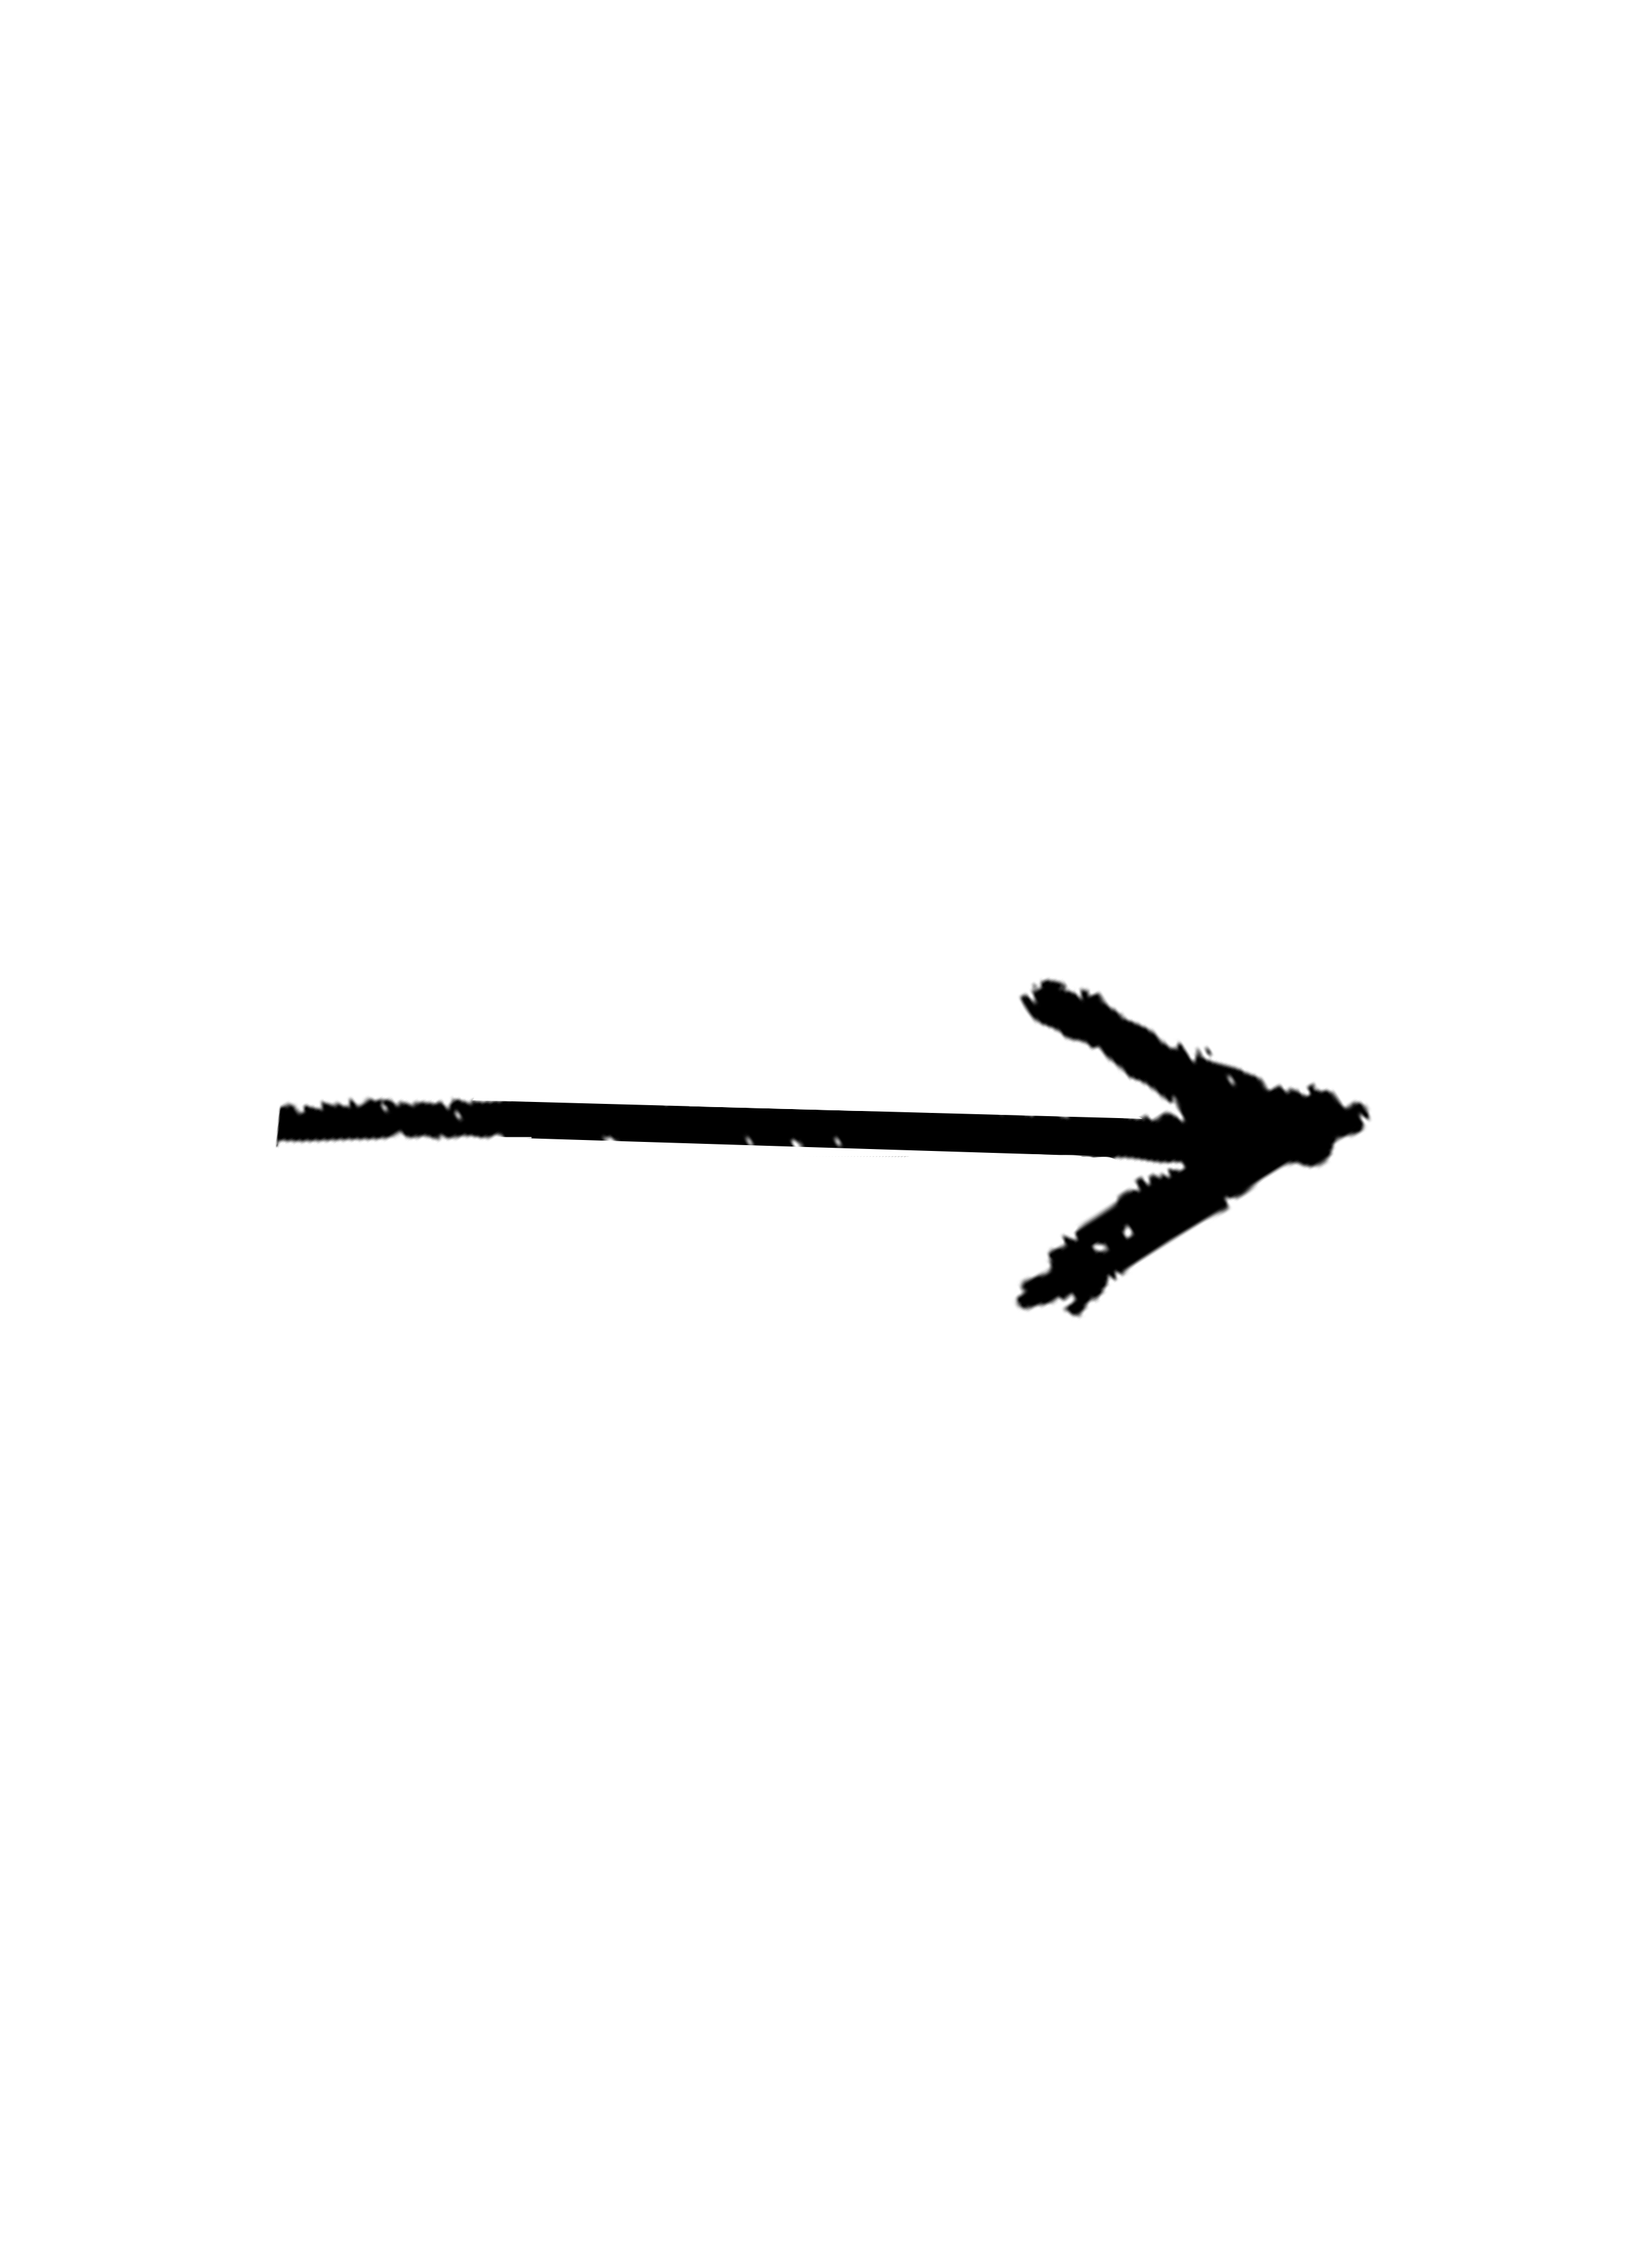
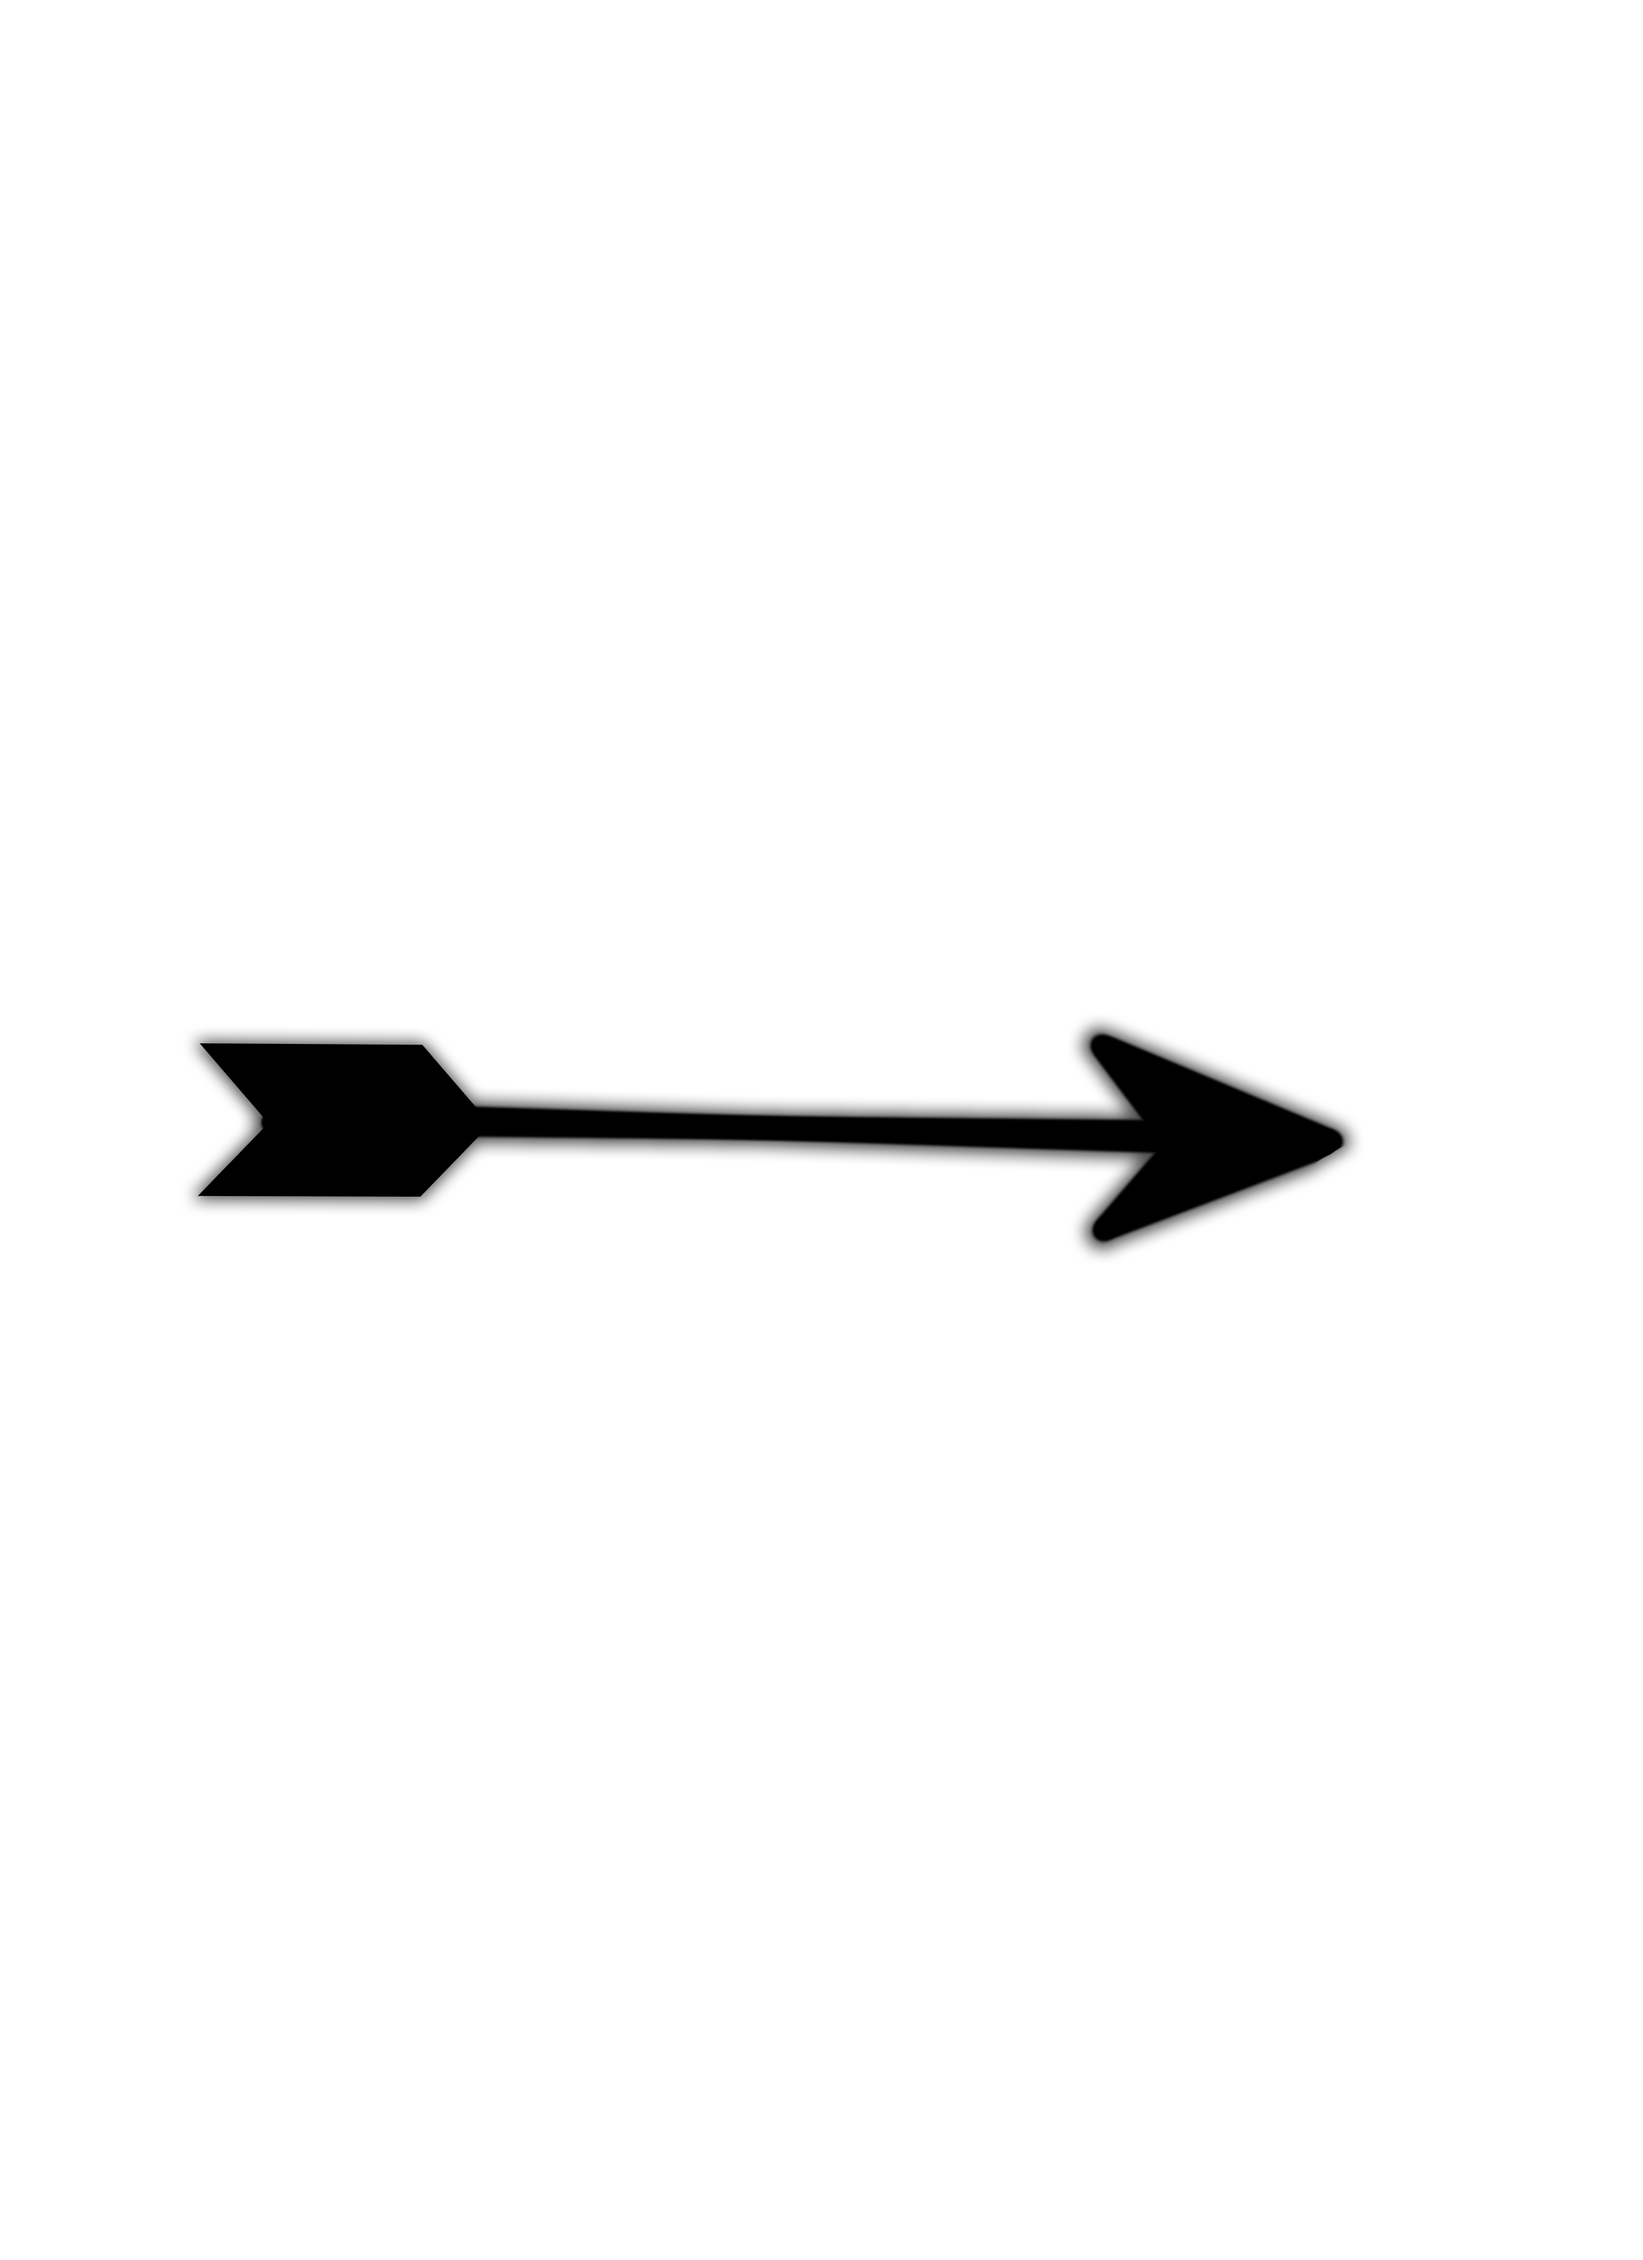
kleines Update
Implementiert nun auch die neuen Assets, also dead animation, idle und eine neue pfeil textur

Changed region(s): [[0.1239, 0.4351, 0.8365, 0.5905]]

diff --git a/Grafik/src/Grafik/Player.java b/Grafik/src/Grafik/Player.java
@@ -5,7 +5,10 @@ import java.awt.Graphics2D;
 import java.awt.Image;
 import java.awt.Toolkit;
 import java.awt.image.BufferedImage;
+import java.io.File;
+import java.io.IOException;
 
+import javax.imageio.ImageIO;
 import javax.swing.JComponent;
 
 /**
@@ -22,9 +25,10 @@ class Player extends JComponent{
   private boolean right;
   private boolean takedmg;
   private boolean dead;
-  
+  private int zaehler;
   private MovementType movement;
   private Image image;
+  private BufferedImage idle;
   private AttackType attack;
   
   /**
@@ -43,10 +47,11 @@ class Player extends JComponent{
       this.y = y;
       width = w;
       height = h;
-      movement = MovementType.MOVE;
+      movement = MovementType.IDLE;
       attack = AttackType.NON;
       image = null;
       right = r;
+      zaehler = 0;
     }
   
   /**
@@ -110,19 +115,25 @@ class Player extends JComponent{
    * Zeichnet den Spieler je nach Bewegungsart, Angriffstyp und ob er gerade Schaden erlitten hat oder gestorben ist
    */
   public void paint(Graphics g) {
-      Graphics2D g2d = (Graphics2D) g;
+      //Graphics2D g2d = (Graphics2D) g;
       Toolkit toolkit = Toolkit.getDefaultToolkit();
       this.setBounds(x, y, width, height);
       // erst Bewegungsanamation laden
       switch(movement){
       case IDLE:
-        image = toolkit.getImage("Assets/Charaktere/" + name + "_idle.gif");
-        break;
+    	  if(idle == null){
+              try {
+                idle = ImageIO.read(new File("Assets/Charaktere/" + name + "_idle.png"));
+              } catch (IOException e) {
+                // TODO Auto-generated catch block
+                e.printStackTrace();
+              }
+            }
       case MOVE:
         image = toolkit.getImage("Assets/Charaktere/" + name + "_move.gif");       
         break;
       case JUMPING:
-        image = toolkit.getImage("Assets/Charaktere/" + name + "_jumping.gif");       
+        image = toolkit.getImage("Assets/Charaktere/" + name + "_jumping.gif"); 
         break;
       default:
         System.out.println("Irgendwas ist schiefgelaufen");
@@ -137,17 +148,30 @@ class Player extends JComponent{
         image = toolkit.getImage("Assets/Charaktere/" + name + "_attack.gif");
         break;
       case SPECIAL1:
-        image = toolkit.getImage("Assets/Charaktere/" + name + "_att_special1.gif");
+        image = toolkit.getImage("Assets/Charaktere/" + name + "_attack.gif");
         break;
       case SPECIAL2:
-        image = toolkit.getImage("Assets/Charaktere/" + name + "_att_special2_r.gif");
+        image = toolkit.getImage("Assets/Charaktere/" + name + "_attack.gif");
         break;
       }
-      if(right) {
-    	  g2d.drawImage(image, 0, 0, width, height, this);
+      if(dead) {
+    	  image = toolkit.getImage("Assets/Charaktere/" + name + "_dead.gif");
+    	  zaehler++;
       }
-      else {
-    	  g2d.drawImage(image, width-1, 0, -width, height, this);
+      if(right && movement != MovementType.IDLE) {
+    	  g.drawImage(image, 0, 0, width, height, this);
+      }
+      else if(!right && movement != MovementType.IDLE){
+    	  g.drawImage(image, width-1, 0, -width, height, this);
+      }
+      else if(right && movement == MovementType.IDLE) {
+    	  g.drawImage(idle, 0, 0, width, height, null);
+      }
+      else if(!right && movement == MovementType.IDLE) {
+    	  g.drawImage(idle, width-1, 0, -width, height, null);
+      }
+      if(zaehler >= 5) {
+    	  Game.delPlayer(this);
       }
   }
   

diff --git a/Grafik/src/Grafik/SoundManager.java b/Grafik/src/Grafik/SoundManager.java
@@ -30,11 +30,10 @@ class SoundManager{  // muss vllt ein eigener Thread sein
             DataLine.Info info      = new DataLine.Info(Clip.class, af, size);
             audioInputStream.read(audio, 0, size);
            
-            //for(int i=0; i < 32; i++) {
-                clip = (Clip) AudioSystem.getLine(info);
-                clip.open(af, audio, 0, size);
-                clip.start();
-            //}
+            clip = (Clip) AudioSystem.getLine(info);
+            clip.open(af, audio, 0, size);
+            clip.start();
+            
         }catch(Exception e){ 
           e.printStackTrace(); 
         }
